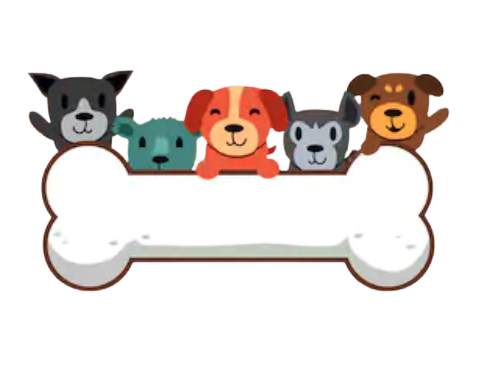
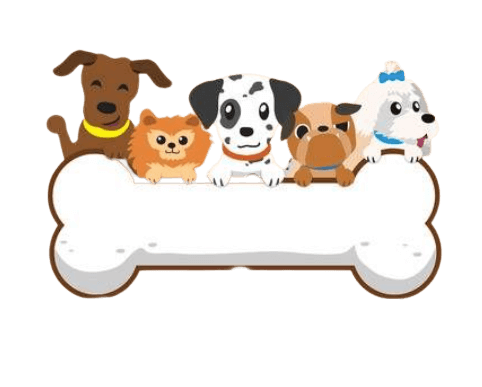
Update docs

Changed region(s): [[0.0622, 0.1167, 0.9336, 0.7878]]

diff --git a/docs/assets/js/main.js b/docs/assets/js/main.js
@@ -1,1 +1,1 @@
-"use strict";console.log(">> Ready :)");
+"use strict";const canvas=document.querySelector(".js-canvas"),game=canvas.getContext("2d"),btnUp=document.querySelector(".item-up"),btnDown=document.querySelector(".item-down"),btnRight=document.querySelector(".item-right"),btnLeft=document.querySelector(".item-left");let actualMapLevel,canvasSize,elementSize,level=0,totalLifes=3;const playerPosition={x:void 0,y:void 0},bonePosition={x:void 0,y:void 0},initialPosition={x:void 0,y:void 0};let collisionPositions=[],isWithinTheMargin=!0;function setCanvasSize(){canvasSize=window.innerHeight>window.innerWidth?Math.floor(.75*window.innerWidth):Math.floor(.75*window.innerHeight),canvas.setAttribute("width",canvasSize),canvas.setAttribute("height",canvasSize),elementSize=Math.floor(canvasSize/10-.4),game.font=elementSize+"px Verdana",game.textAlign="end",startGame()}function renderMapLevel(e){const i=maps[e].trim().split("\n");actualMapLevel=i.map(e=>e.trim().split("")),collisionPositions=[],clearCanvas(),actualMapLevel.forEach((e,i)=>{e.forEach((e,n)=>{const t=emojis[e],o=elementSize*(n+1),a=elementSize*(i+1);"O"==e?playerPosition.x||playerPosition.y||(playerPosition.x=o,playerPosition.y=a,initialPosition.x=o,initialPosition.y=a):"I"==e?(bonePosition.x=o,bonePosition.y=a):"X"==e&&collisionPositions.push({x:o,y:a}),game.fillText(t,o,a)})}),renderPlayerPosition()}function renderPlayerPosition(){game.fillText(emojis.PLAYER,playerPosition.x,playerPosition.y),validateCollisions(),getTheBone()}function moveUp(){playerPosition.y-=elementSize,withinTheMargin()?startGame():playerPosition.y+=elementSize}function moveDown(){playerPosition.y+=elementSize,withinTheMargin()?startGame():playerPosition.y-=elementSize}function moveLeft(){playerPosition.x-=elementSize,withinTheMargin()?startGame():playerPosition.x+=elementSize}function moveRight(){playerPosition.x+=elementSize,withinTheMargin()?startGame():playerPosition.x-=elementSize}function moveByKeys(e){"ArrowUp"==e.key?moveUp():"ArrowDown"==e.key?moveDown():"ArrowLeft"==e.key?moveLeft():"ArrowRight"==e.key&&moveRight()}function validateCollisions(){const e=collisionPositions.find(e=>{const i=e.x.toFixed(3)==playerPosition.x.toFixed(3),n=e.y.toFixed(3)==playerPosition.y.toFixed(3);return i&&n});e&&(totalLifes>1?crashOver():gameOver()),console.log({playerPosition:playerPosition,collision:e,totalLifes:totalLifes})}function getTheBone(){JSON.stringify(bonePosition)===JSON.stringify(playerPosition)&&(console.log("congrats!!"),validateLastLevel(level))}function withinTheMargin(){if(playerPosition.x>=elementSize&&playerPosition.x<=canvasSize&&playerPosition.y>=elementSize&&playerPosition.y<=canvasSize)return!0}function validateLastLevel(e){e<maps.length-1?levelUp():winGame()}function clearCanvas(){game.clearRect(0,0,canvasSize,canvasSize)}function crashOver(){console.log("CRASH!"),loseLife(),playerPosition.x=initialPosition.x,playerPosition.y=initialPosition.y,setTimeout(startGame,1e3)}function gameOver(){console.log("GAME OVER")}function loseLife(){totalLifes--}function startGame(){renderMapLevel(level)}function levelUp(){level++,console.log("well done"),startGame()}function winGame(){console.log("no mas mapas"),clearCanvas();for(let e=1;e<=10;e++)for(let i=1;i<=10;i++)game.fillText(emojis.I,elementSize*e,elementSize*i);(new JSConfetti).addConfetti({emojis:["🦴","🐶","✨","🏆"],confettiRadius:6,confettiNumber:50})}window.addEventListener("load",setCanvasSize),window.addEventListener("resize",setCanvasSize),window.addEventListener("keydown",moveByKeys),btnUp.addEventListener("click",moveUp),btnDown.addEventListener("click",moveDown),btnRight.addEventListener("click",moveRight),btnLeft.addEventListener("click",moveLeft),console.log(">> Ready :)");const emojis={"-":" ",O:"🏠",X:"🌳",I:"🦴",PLAYER:"🐶",BOMB_COLLISION:"🗯",GAME_OVER:"👎",WIN:"🏆"},maps=[];maps.push("\n    IXXXXXXXXX\n    -XXXXXXXXX\n    -XXXXXXXXX\n    -XXXXXXXXX\n    -XXXXXXXXX\n    -XXXXXXXXX\n    -XXXXXXXXX\n    -XXXXXXXXX\n    -XXXXXXXXX\n    OXXXXXXXXX\n  "),maps.push("\n    O--XXXXXXX\n    X--XXXXXXX\n    XX----XXXX\n    X--XX-XXXX\n    X-XXX--XXX\n    X-XXXX-XXX\n    XX--XX--XX\n    XX--XXX-XX\n    XXXX---IXX\n    XXXXXXXXXX\n    ");

diff --git a/docs/assets/css/main.css b/docs/assets/css/main.css
@@ -1,1 +1,1 @@
-*{box-sizing:border-box;margin:0;padding:0}.code{font-size:16px;background:#d8d8d8;padding:0 5px;border-radius:5px}.link__adalab:hover{background-color:#099d8d;color:#fff}.link__github:hover{background-color:#CCC;color:#000}body{padding:2rem;height:100vh;background-image:url("../images/bg-adalab.png");background-color:#f3f4f5;font-family:"Roboto",sans-serif}.page__header{display:flex;justify-content:space-evenly;margin-bottom:3rem}.page__footer{position:fixed;left:0;bottom:0;width:100vw;padding:1rem;color:#999}.main__list{padding-left:2rem;padding-bottom:20px}
+*{box-sizing:border-box;margin:0;padding:0}html{font-size:62.5%;font-family:"Andika",sans-serif}.link{text-decoration:none;cursor:pointer;color:#fbe8d7}.link:hover{text-transform:uppercase;font-weight:bold;color:#c27434}.link-footer{text-decoration:none;cursor:pointer;color:#000}.link-footer :hover{color:#c27434}.main-index{display:flex;justify-content:space-evenly;align-items:center;flex-direction:column}.main-index .title{font-family:"Cherry Bomb One",cursive;font-size:5rem;padding:20px;background-color:#fbe8d7;border-radius:76% 24% 70% 30% / 57% 76% 24% 43%}.main-index .img-index{display:block;width:100%;max-width:350px;-o-object-fit:cover;object-fit:cover}.main-index .button-start{width:210px;margin-top:120px;padding:15px 10px;border-radius:50px;border:4px solid #c27434;background-color:#c27434;font-size:2.8rem}.main-index .button-start p::first-letter{text-transform:capitalize}.main-index .button-start:hover{background-color:#f2b150;color:#c27434}.title__game{font-family:"Cherry Bomb One",cursive;text-align:center;padding-top:20px;display:block;font-size:5rem}@media all and (min-width: 1024px){.title__game{display:none}}.title__game-desktop{display:none;font-size:5rem}@media all and (min-width: 1024px){.title__game-desktop{display:block;padding:15px;background-color:#fbe8d7;border-radius:76% 24% 70% 30% / 57% 76% 24% 43%}}.game{display:flex;align-items:center;justify-content:center;flex-direction:column;padding:3rem;width:100%;height:auto}@media all and (min-width: 1024px){.game{flex-direction:row;gap:20px}}.game canvas{border:4px solid #c27434;background-color:#fbe8d7;border-radius:8px;padding:3px}.game .grid-btns{display:grid;justify-content:center}.game .grid-btns .btns{display:grid;gap:5px;justify-self:center;padding:10px;width:220px}.game .grid-btns .btn-item{align-self:end}.game .grid-btns .item-left{grid-column:1;grid-row:1 / span 2}.game .grid-btns .item-right{grid-column:3;grid-row:1 / span 2}.game .grid-btns .btn-arrow{display:block;background-color:#fbe8d7;border:1px #fabd5a;color:#000;padding:8px 10px;font-size:14px;font-weight:bold;font-family:"Cherry Bomb One",cursive;border-radius:6px;text-align:center;align-self:end;box-shadow:1px 2px 3px rgba(0,0,0,0.3);width:70px}.game .grid-btns .btn-arrow:hover{background-color:#c27434;color:#fbe8d7}.game .grid-btns .btn-arrow:focus{border-color:#c27434}.game .grid-btns .btn-arrow:active{background-color:rgba(250,250,255,0.85);box-shadow:0.5px 1px 2px rgba(0,0,0,0.3)}.game__info{display:flex;justify-content:center;align-items:center;margin-top:30px;gap:20px}.game__info .info{width:280px;background-color:#fbe8d7;border-radius:71% 29% 85% 15% / 34% 62% 38% 66%;padding:40px;list-style:none}.game__info .info li{font-size:2.5rem}@media all and (min-width: 1024px){.game__info{flex-direction:column}}.footer{position:fixed;bottom:0;right:0;left:0;display:flex;justify-content:center;align-items:center;padding:10px;background-color:#fbe8d7}.footer__text{font-size:1.8rem}.footer__text .logo{font-family:"Cherry Bomb One",cursive;font-size:2.4rem}.page__game{background-color:#fabd5a;background-image:linear-gradient(#f2b150 2.6px, transparent 2.6px),linear-gradient(to right, #f2b150 2.6px, #fabd5a 2.6px);background-size:52px 52px;position:relative;height:100vh}.page__index{background-color:#fabd5a;background-image:linear-gradient(#f2b150 2.6px, transparent 2.6px),linear-gradient(to right, #f2b150 2.6px, #fabd5a 2.6px);background-size:52px 52px;padding:10rem 3rem;width:100%;height:100vh}

diff --git a/docs/index.html b/docs/index.html
@@ -1,66 +1,33 @@
 <!DOCTYPE html>
-<html lang="es">
+<html lang="en">
   <head>
     <meta charset="UTF-8" />
     <meta name="viewport" content="width=device-width, initial-scale=1" />
-    <title>Adalab Web Starter Kit</title>
-    <link href="https://fonts.googleapis.com/css?family=Roboto&display=swap" rel="stylesheet" />
+    <title>Paw Paw</title>
+    <link rel="preconnect" href="https://fonts.googleapis.com" />
+    <link rel="preconnect" href="https://fonts.gstatic.com" crossorigin />
+    <link
+      href="https://fonts.googleapis.com/css2?family=Andika:wght@400;700&family=Cherry+Bomb+One&display=swap"
+      rel="stylesheet"
+    />
+
     <link rel="stylesheet" href="./assets/css/main.css" />
     <link rel="icon" href="./assets/images/favicon.png" />
   </head>
 
   <body>
-    <div class="page">
-      <header class="page__header">
-        <img src="./assets/images/logo-adalab.png" alt="Adalab">
-        <h1>Bienvenidos a Adalab</h1>
-      </header>
-
-      <main class="page__main">
-        <h2>Este es el starter kit de Adalab</h2>
-        <p>Lo usamos para aprender:</p>
-        <ul class="main__list">
-          <li>Sass</li>
-          <li>HTML partials</li>
-          <li>Gulp</li>
-          <li>y muchas cosas más</li>
-        </ul>
-        <p>Si quieres saber cúales son las rutas correctas para:</p>
-        <ul class="main__list">
-          <li>
-            una <code class="code">&lt;img /&gt;</code> mira el fichero
-            <code class="code">./src/html/partials/header.html</code>.
-          </li>
-          <li>
-            y para un <code class="code">background-image</code> mira el fichero
-            <code class="code">./src/html/scss/layout/_page.scss</code>.
-          </li>
-        </ul>
-        <p>
-          Si quieres saber cómo usar un partial HTML dentro de otro partial, busca en la carperta
-          <code class="code">./src/html/index.html</code> y
-          <code class="code">./src/html/partials/main.html</code>, y verás cómo estamos creando estos
-          enlaces:
-        </p>
-        <ul class="main__list">
-          <li>
-            <a class="link__adalab" href="https://adalab.es">Adalab</a>
-
-          </li>
-          <li>
-            <a class="" href="./more-info.html">Más info del starter kit</a>
-
-          </li>
-        </ul>
+    <div class="page__index">
+      <main class="main-index">
+        <h1 class="title">PAW PAW</h1>
+        <img
+          src="./assets/images/PAW-PAW.png"
+          alt="puppies peeking"
+          class="img-index"
+        />
+        <button class="button-start">
+          <a class="link" href="./game.html"><p>let´s start</p></a>
+        </button>
       </main>
-
-      <footer class="page__footer">
-        <small>
-          &copy; Todos los derechos reservados
-          <a class="link__adalab" href="https://adalab.es">Adalab</a>
-
-        </small>
-      </footer>
 
     </div>
     <script src="./assets/js/main.js"></script>

diff --git a/docs/game.html b/docs/game.html
@@ -1,0 +1,74 @@
+<!DOCTYPE html>
+<html lang="en">
+  <head>
+    <meta charset="UTF-8" />
+    <meta name="viewport" content="width=device-width, initial-scale=1.0" />
+    <title>Paw Paw</title>
+    <link rel="preconnect" href="https://fonts.googleapis.com" />
+    <link rel="preconnect" href="https://fonts.gstatic.com" crossorigin />
+    <link
+      href="https://fonts.googleapis.com/css2?family=Andika:wght@400;700&family=Cherry+Bomb+One&display=swap"
+      rel="stylesheet"
+    />
+
+    <link rel="stylesheet" href="./assets/css/main.css" />
+    <link rel="icon" href="./assets/images/favicon.png" />
+  </head>
+  <body>
+    <div class="page__game">
+      <main>
+        <h2 class="title__game">Paw Paw</h2>
+        <div class="game">
+          <section>
+            <canvas class="js-canvas"></canvas>
+            <div class="grid-btns">
+              <div class="btns">
+                <div class="btn-item item-up">
+                  <button class="btn-arrow">&#8593;</button>
+                </div>
+                <div class="btn-item item-left">
+                  <button class="btn-arrow">&#8592;</button>
+                </div>
+                <div class="btn-item item-down">
+                  <button class="btn-arrow">&#8595;</button>
+                </div>
+                <div class="btn-item item-right">
+                  <button class="btn-arrow">&#8594;</button>
+                </div>
+              </div>
+            </div>
+          </section>
+
+          <section class="game__info">
+            <h2 class="title__game-desktop title__game">Paw Paw</h2>
+            <!--   <img
+              src="./assets/images/PAW-PAW.png"
+              alt="puppies peeking"
+              class="img-game"
+            /> -->
+            <ul class="info">
+              <li class="subtitle">Life: ❤❤❤</li>
+              <li class="subtitle">Time ⏰: 255555</li>
+              <li class="subtitle">Record 🏁:22225</li>
+            </ul>
+          </section>
+        </div>
+      </main>
+
+      <footer class="footer">
+        <p class="footer__text">
+          &copy <span class="logo">paw paw</span> coded by
+          <a class="link-footer" href="https://github.com/lupeMorales" target="_blank"
+            >lupeMorales</a
+          >
+        </p>
+      </footer>
+
+    </div>
+    <script src="https://cdn.jsdelivr.net/npm/js-confetti@latest/dist/js-confetti.browser.js"></script>
+
+    <script src="./assets/js/maps.js"></script>
+    <script src="./assets/js/game.js"></script>
+    <script src="./assets/js/main.js"></script>
+  </body>
+</html>
